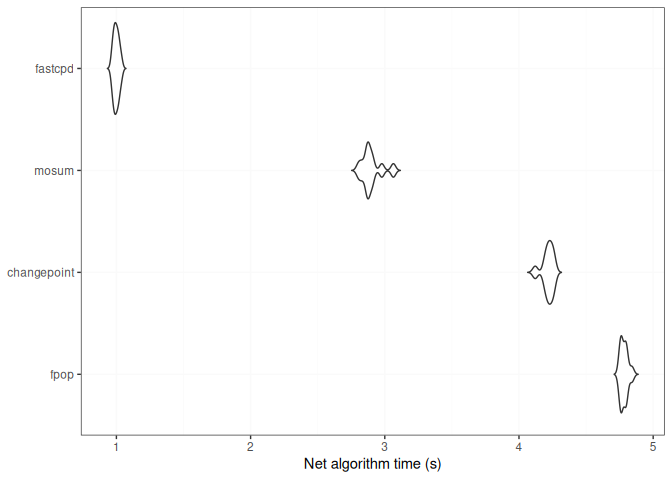
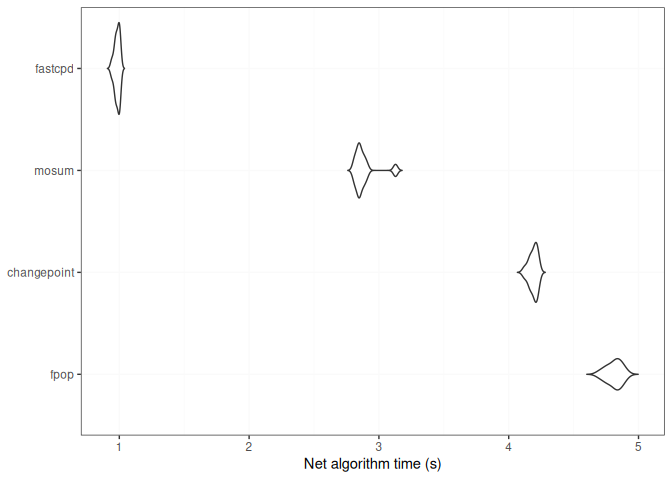
Enable Python custom cost callbacks

diff --git a/README.md b/README.md
@@ -61,16 +61,16 @@ n <- 10^7
 mean_data <- c(rnorm(n / 2, 0, 1), rnorm(n / 2, 50, 1))
 print(run_isolated(fastcpd::detect_mean(mean_data, cp_only = TRUE, variance_estimation = 1)))
 #>    user  system elapsed 
-#>   0.729   0.201   0.930
+#>   0.733   0.196   0.932
 print(run_isolated(mosum::mosum(c(mean_data), G = 40)))
 #>    user  system elapsed 
-#>   1.219   0.667   1.893
+#>   1.217   0.711   1.947
 print(run_isolated(changepoint::cpt.mean(mean_data, method = "PELT")))
 #>    user  system elapsed 
-#>   3.326   0.598   3.929
+#>   3.351   0.635   3.987
 print(run_isolated(fpop::Fpop(mean_data, 2 * log(n))))
 #>    user  system elapsed 
-#>   3.953   0.262   4.218
+#>   3.977   0.280   4.265
 ```
 
 ![](https://raw.githubusercontent.com/doccstat/fastcpd-r/main/man/figures/README-time-comparison-fastbench-1.png)<!-- -->
@@ -90,9 +90,8 @@ import skchange.detectors
 import skchange.interval_scorers
 
 rng = np.random.default_rng(1)
-n = int(1e6)
+n = int(1e4)
 x = np.r_[rng.normal(0, 1, n // 2), rng.normal(50, 1, n // 2)]
-step = 10_000
 
 start = time.perf_counter()
 fastcpd.detect_mean(x, variance_estimation=1, cp_only=True)
@@ -100,27 +99,27 @@ print(f"fastcpd: {time.perf_counter() - start:.3f} s")
 
 start = time.perf_counter()
 skchange.detectors.PELT(
-    cost=skchange.interval_scorers.L2Cost(), penalty=2 * np.log(n), step_size=step
+    cost=skchange.interval_scorers.L2Cost(), penalty=2 * np.log(n), step_size=1
 ).fit_predict(x.reshape(-1, 1))
 print(f"skchange: {time.perf_counter() - start:.3f} s")
 
 start = time.perf_counter()
-sdt.changepoint.Pelt(cost="l2", min_size=step, jump=step).find_changepoints(
+sdt.changepoint.Pelt(cost="l2", min_size=1, jump=1).find_changepoints(
     x, penalty=2 * np.log(n)
 )
 print(f"sdt-python: {time.perf_counter() - start:.3f} s")
 
 start = time.perf_counter()
-ruptures.Pelt(model="l2", min_size=step, jump=step).fit(x).predict(
+ruptures.Pelt(model="l2", min_size=1, jump=1).fit(x).predict(
     pen=2 * np.log(n)
 )
 print(f"ruptures: {time.perf_counter() - start:.3f} s")
 ```
 
-    #> fastcpd: 0.061 s
-    #> skchange: 0.316 s
-    #> sdt-python: 5.989 s
-    #> ruptures: 0.852 s
+    #> fastcpd: 0.001 s
+    #> skchange: 1.125 s
+    #> sdt-python: 50.173 s
+    #> ruptures: 442.609 s
 
 ![](https://raw.githubusercontent.com/doccstat/fastcpd-r/main/man/figures/README-time-comparison-python-plot-1.png)<!-- -->
 
